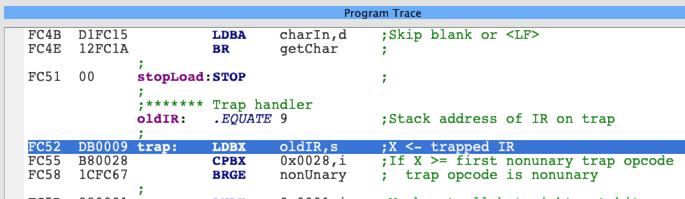
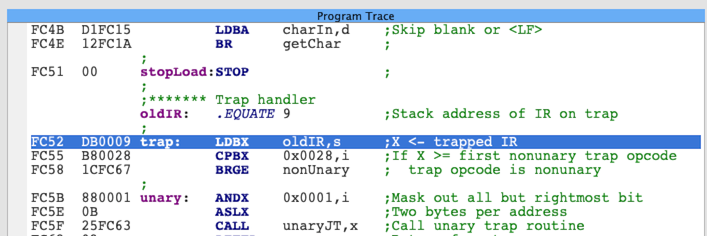
More on pep9asm Help -> Debugging

diff --git a/pep9asm/help-asm/debuggingprograms.html b/pep9asm/help-asm/debuggingprograms.html
@@ -144,11 +144,11 @@ with values 68 84 in the input stream.
 <p>
 The Start Debugging action activates the Debugger tab, which displays the Program Trace.
 The Program Trace shows the assembly language source code with the statement to be executed next highlighted in blue.
-With this program, the branch-to-main instruction is about to execute.
+With this program, the <code>BR main</code> instruction is about to execute.
 <p>
 <img src="qrc:/help-asm/images/fig0604trace1.png" alt="fig0604trace1" hspace=10 vspace=10>
 <p>
-Select
+<h4>Single step</h4>
 While you are in the debugging mode, you can select Debug&rarr;Single Step from the menu or click on
 the corresponding icon in the tool bar.
 <p>
@@ -198,6 +198,7 @@ This is the instruction in the operating system that returns control to the appl
 <img src="qrc:/help-asm/images/fig0604trace4cpu.png" alt="fig0604trace4cpu" hspace=10 vspace=10>
 <img src="qrc:/help-asm/images/fig0604trace4stack.png" alt="fig0604trace4stack" hspace=10 vspace=10>
 <p>
+<h4>Step into</h4>
 If you want to trace the execution of the statements in the operating system that implement the <code>DECI</code>
 instruction, you can choose the second trace option.
 Select Debug&rarr;Step Into from the menu or click on the corresponding icon in the tool bar.
@@ -205,15 +206,27 @@ Select Debug&rarr;Step Into from the menu or click on the corresponding icon in 
 <img src="qrc:/help-asm/images/stepinto.png" alt="stepinto" hspace=10 vspace=10>
 <img src="qrc:/help-asm/images/stepintoicon.png" alt="stepintoicon" hspace=10 vspace=10>
 <p>
-Blah blah
+The Program Trace pane switches to the operating system.
+When a trap instruction executes, control is transferred to the trap handler of the OS.
+The first instruction of the trap handler to execute is the <code>LDBX</code> instruction at FC522.
 <p>
 <img src="qrc:/help-asm/images/fig0604trace5.png" alt="fig0604trace5" hspace=10 vspace=10>
 <img src="qrc:/help-asm/images/fig0604trace5cpu.png" alt="fig0604trace5cpu" hspace=10 vspace=10>
 <p>
-
-
-
-
+<h4>Step out</h4>
+You can continue to single step through the operating system to trace the statements that implement <code>DECI</code>.
+Eventually, you will execute <code>RETTR</code>, the return from trap instruction.
+The Program Trace pane will switch back to the application and highlight the instruction after the one that caused the trap.
+If you are part way through tracing the trap handler and want to immediately return to the application,
+select Debug&rarr;Step Out from the menu or click on the corresponding icon in the tool bar.
+<p>
+<img src="qrc:/help-asm/images/stepout.png" alt="stepout" hspace=10 vspace=10>
+<img src="qrc:/help-asm/images/stepouticon.png" alt="stepouticon" hspace=10 vspace=10>
+<p>
+The debugger will automatically execute all the remaining statements of the trap handler up to,
+and including, the <code>RETTR</code> instruction.
+You will then be ready to single step through the remaining statements of the application.
+<p>
 
  The CPU pane shows you the values of the NZVC bits and of each register in the CPU.
  The following screenshot shows the CPU pane after one click of the Single Step button for the object program from
@@ -238,12 +251,6 @@ The Operand field in the CPU pane is enclosed in parentheses to emphasize the fa
  So, the value of the program counter is the address of the <i>next</i> instruction to execute.
  In the above screenshot, the program counter is 3, which is the address of the <i>next</i> instruction to execute,
  while the instruction that just executed is the instruction at address 0.
-<p>
- As you single step through the program, the Memory Dump pane highlights in red the bytes that have changed,
- and highlights in blue the bytes of the instruction as specified by the program counter.
- The following screenshot shows the Memory Dump pane after the second click of the Single Step button.
-<p>
-<img src="qrc:/help-asm/images/fig0435memorydump.png" alt="fig0435memorydump" hspace=10 vspace=10>
 <p>
 Each line of the Memory Dump pane displays eight bytes, each byte represented as two hexadecimal digits.
 The address in the first column is the address of the first byte.
@@ -271,10 +278,6 @@ The following screenshots from Figure 6.1 show the stack starting at address FB8
 <p>
 <img src="qrc:/help-asm/images/stopdebugging.png" alt="stopdebugging" hspace=10 vspace=10>
 <img src="qrc:/help-asm/images/stopdebuggingicon.png" alt="stopdebuggingicon" hspace=10 vspace=10>
-<p>
-<a href="#Topics">Scroll to topics</a>.
-<p>
-The basic operation for tracing a program is the Single step, which you activate by the
 <p>
 <a href="#Topics">Scroll to topics</a>.
 <p>
